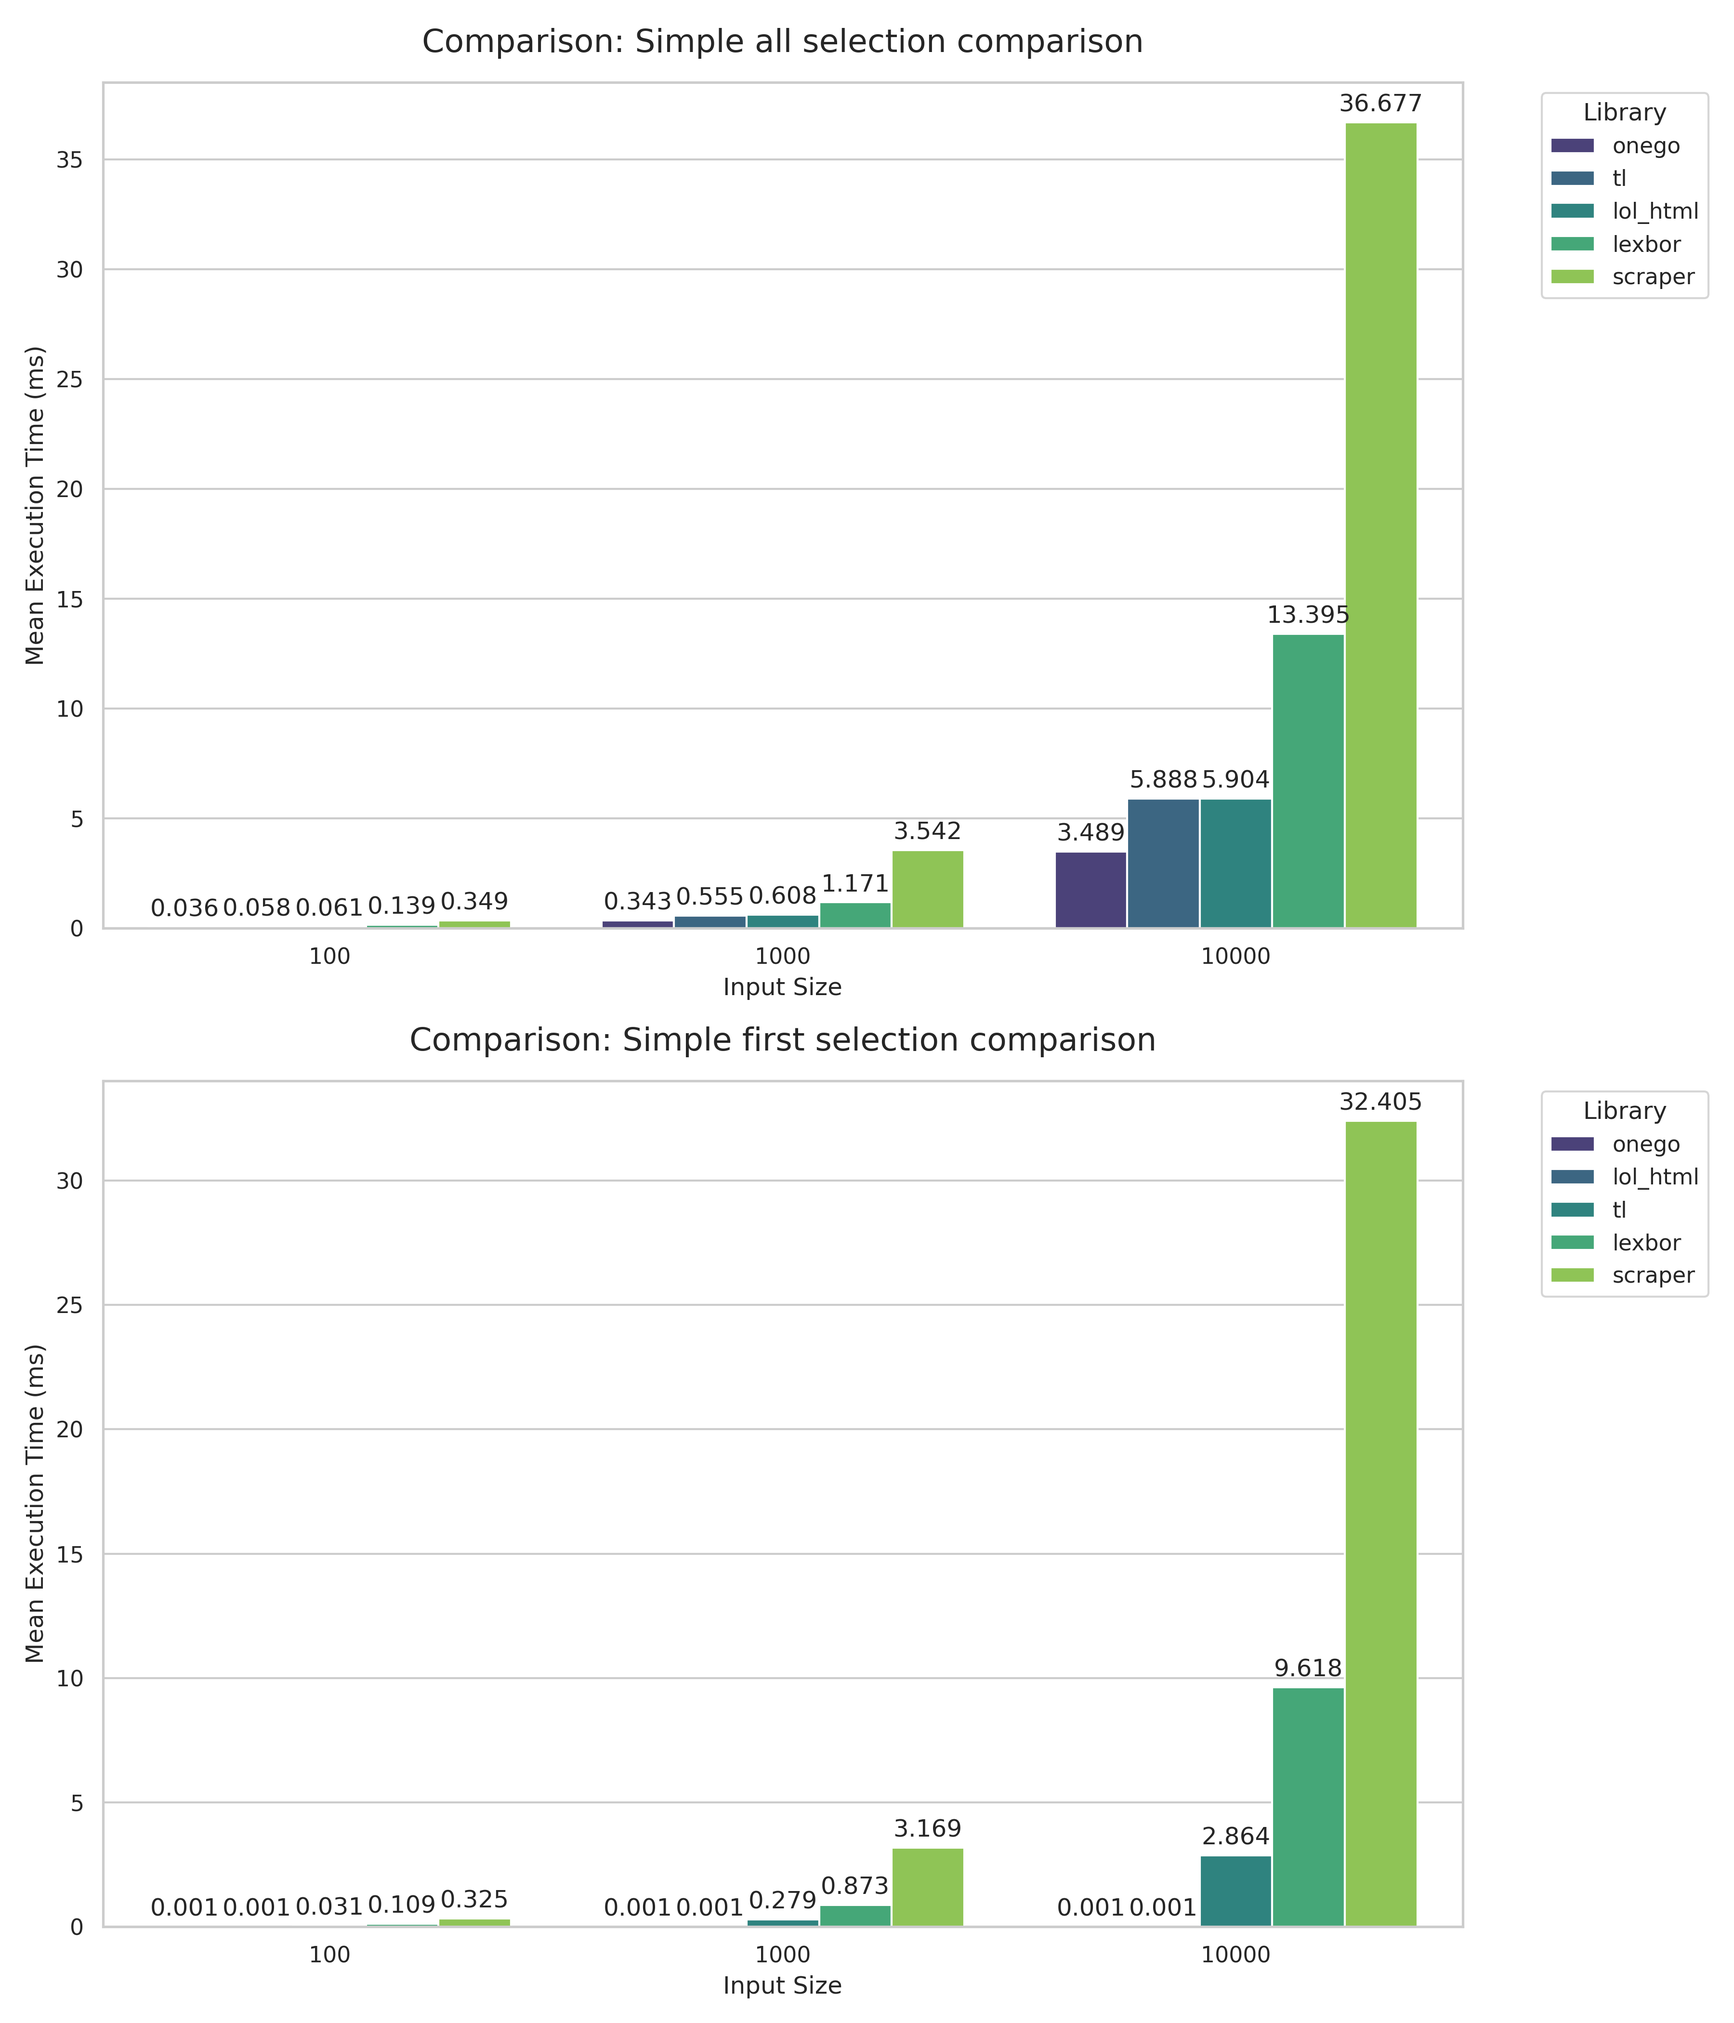
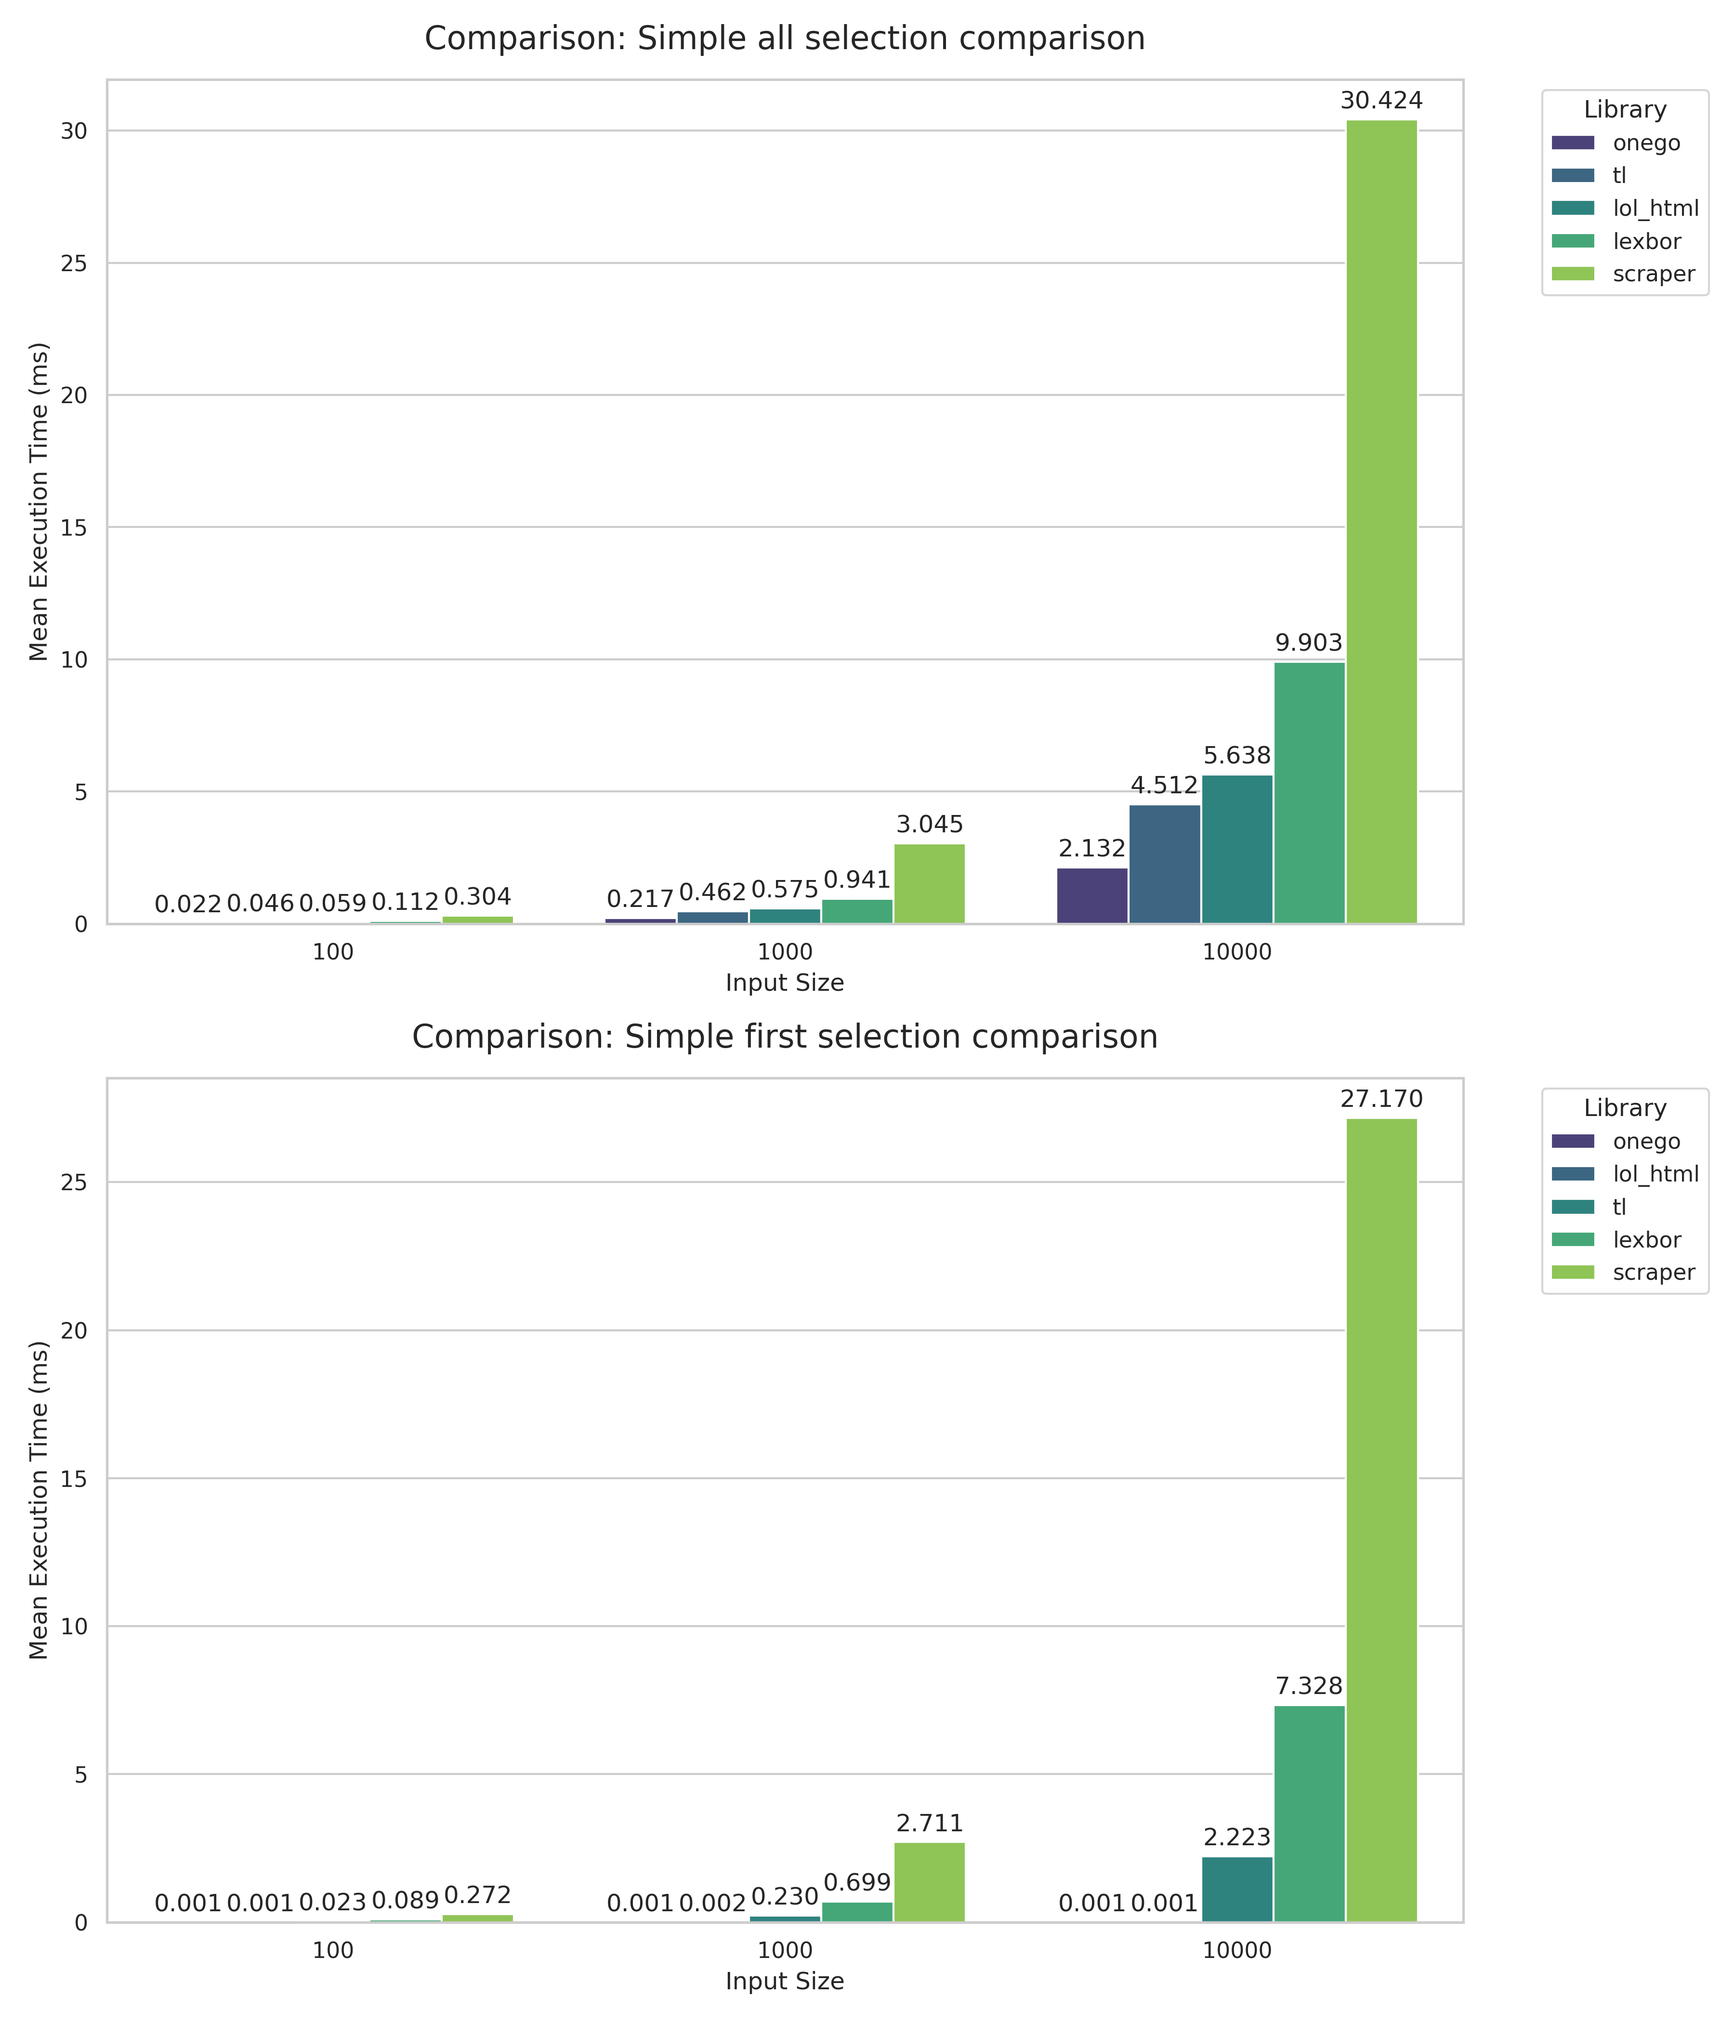
Text Content Benchmarks

diff --git a/src/xhtml/parser.rs b/src/xhtml/parser.rs
@@ -149,7 +149,6 @@ impl<'html, 'query: 'html> XHtmlParser<'html, 'query> {
         self.store
     }
 }
-/*
 #[cfg(test)]
 mod tests {
     use super::*;
@@ -174,7 +173,7 @@ mod tests {
 
         let queries = &[Query::all("p.indent > .bold", Save::none()).build()];
 
-        let manager = FsmManager::new(RustStore::new(()), queries);
+        let manager = FsmManager::new(queries);
 
         let mut parser = XHtmlParser::new(manager);
 
@@ -212,7 +211,7 @@ mod tests {
         let mut reader = Reader::new(BASIC_HTML);
 
         let queries = &[Query::all("p.indent > .bold", Save::none()).build()];
-        let manager = FsmManager::new(RustStore::new(()), queries);
+        let manager = FsmManager::new(queries);
 
         let mut parser = XHtmlParser::new(manager);
 
@@ -224,37 +223,37 @@ mod tests {
 
         continue_parser = parser.next(&mut reader); // </h1>
         assert!(continue_parser);
-        assert_eq!(parser.content.content, "Hello World".to_string());
+        assert_eq!(parser.store.text_content.content, "Hello World".to_string());
 
         continue_parser = parser.next(&mut reader); // <p class="indent">
         assert!(continue_parser);
-        assert_eq!(parser.content.content, "Hello World".to_string());
+        assert_eq!(parser.store.text_content.content, "Hello World".to_string());
 
         continue_parser = parser.next(&mut reader); // <span id="name" class="bold">
         assert!(continue_parser);
         assert_eq!(
-            parser.content.content.trim(),
+            parser.store.text_content.content.trim(),
             "Hello World My name is".to_string()
         );
 
         continue_parser = parser.next(&mut reader); // </span>
         assert!(continue_parser);
         assert_eq!(
-            parser.content.content.trim(),
+            parser.store.text_content.content.trim(),
             "Hello World My name is Zachary".to_string()
         );
 
         continue_parser = parser.next(&mut reader); // </p>
         assert!(continue_parser);
         assert_eq!(
-            parser.content.content.trim(),
+            parser.store.text_content.content.trim(),
             "Hello World My name is Zachary".to_string()
         );
 
         continue_parser = parser.next(&mut reader); // </html>
         assert!(!continue_parser);
         assert_eq!(
-            parser.content.content.trim(),
+            parser.store.text_content.content.trim(),
             "Hello World My name is Zachary".to_string()
         );
     }
@@ -268,7 +267,7 @@ mod tests {
             Query::all("h1 + .indent #name", Save::none()).build(),
         ];
 
-        let manager = FsmManager::new(RustStore::new(()), queries);
+        let manager = FsmManager::new(queries);
 
         let mut parser = XHtmlParser::new(manager);
 
@@ -318,7 +317,7 @@ mod tests {
             ]
         });
         let queries = &[queries.build()];
-        let manager = FsmManager::new(RustStore::new(()), queries);
+        let manager = FsmManager::new(queries);
 
         let mut parser = XHtmlParser::new(manager);
 
@@ -341,7 +340,7 @@ mod tests {
 
         // Section 1
         let s1 = sections[0];
-        assert_eq!(s1.text_content, Some("Hello World".to_string()));
+        assert_eq!(store.text_content(s1), Some("Hello World"));
 
         let s1_div_a: Vec<&Element> = s1["div a"]
             .iter()
@@ -349,7 +348,7 @@ mod tests {
             .map(|i| &store.arena[*i])
             .collect();
         assert_eq!(s1_div_a.len(), 1);
-        assert_eq!(s1_div_a[0].text_content, Some("World".to_string()));
+        assert_eq!(store.text_content(s1_div_a[0]), Some("World"));
         assert_eq!(s1_div_a[0].attributes[0].value, Some("https://world.com"));
 
         let s1_direct_a: Vec<&Element> = s1["> a[href]"]
@@ -358,7 +357,7 @@ mod tests {
             .map(|i| &store.arena[*i])
             .collect();
         assert_eq!(s1_direct_a.len(), 1);
-        assert_eq!(s1_direct_a[0].text_content, Some("Hello".to_string()));
+        assert_eq!(store.text_content(s1_direct_a[0]), Some("Hello"));
         assert_eq!(
             s1_direct_a[0].attributes[0].value,
             Some("https://hello.com")
@@ -366,7 +365,7 @@ mod tests {
 
         // Section 2
         let s2 = sections[1];
-        assert_eq!(s2.text_content, Some("Hello2 World2 World3".to_string()));
+        assert_eq!(store.text_content(s2), Some("Hello2 World2 World3"));
 
         let s2_div_a: Vec<&Element> = s2["div a"]
             .iter()
@@ -374,8 +373,8 @@ mod tests {
             .map(|i| &store.arena[*i])
             .collect();
         assert_eq!(s2_div_a.len(), 2);
-        assert_eq!(s2_div_a[0].text_content, Some("World2".to_string()));
-        assert_eq!(s2_div_a[1].text_content, Some("World3".to_string()));
+        assert_eq!(store.text_content(s2_div_a[0]), Some("World2"));
+        assert_eq!(store.text_content(s2_div_a[1]), Some("World3"));
 
         let s2_direct_a: Vec<&Element> = s2["> a[href]"]
             .iter()
@@ -383,7 +382,7 @@ mod tests {
             .map(|i| &store.arena[*i])
             .collect();
         assert_eq!(s2_direct_a.len(), 1);
-        assert_eq!(s2_direct_a[0].text_content, Some("Hello2".to_string()));
+        assert_eq!(store.text_content(s2_direct_a[0]), Some("Hello2"));
     }
 
     const BASIC_HTML_WITH_SCRIPT: &str = r#"
@@ -403,7 +402,7 @@ mod tests {
 
         let queries = &[Query::all("div", Save::none()).build()];
 
-        let manager = FsmManager::new(RustStore::new(()), queries);
+        let manager = FsmManager::new(queries);
 
         let mut parser = XHtmlParser::new(manager);
 
@@ -450,7 +449,7 @@ mod tests {
         let mut reader = Reader::new(BASIC_HTML_WITH_SELF_CLOSING_TAG);
         let queries = &[Query::all("form > p > input", Save::none()).build()];
 
-        let manager = FsmManager::new(RustStore::new(()), queries);
+        let manager = FsmManager::new(queries);
 
         let mut parser = XHtmlParser::new(manager);
 
@@ -490,7 +489,7 @@ mod tests {
 
         let queries = &[Query::all("form > p > input", Save::all()).build()];
 
-        let manager = FsmManager::new(RustStore::new(()), queries);
+        let manager = FsmManager::new(queries);
 
         let mut parser = XHtmlParser::new(manager);
 
@@ -531,7 +530,7 @@ mod tests {
 
         let queries = &[Query::all("a", Save::all()).build()];
 
-        let manager = FsmManager::new(RustStore::new(()), queries);
+        let manager = FsmManager::new(queries);
 
         let mut parser = XHtmlParser::new(manager);
 
@@ -547,9 +546,9 @@ mod tests {
             .collect();
         assert_eq!(anchors.len(), 3);
 
-        assert_eq!(anchors[0].text_content, Some("Hello 1".to_string()));
-        assert_eq!(anchors[1].text_content, Some("Hello 2".to_string()));
-        assert_eq!(anchors[2].text_content, Some("Hello 3".to_string()));
+        assert_eq!(store.text_content(anchors[0]), Some("Hello 1"));
+        assert_eq!(store.text_content(anchors[1]), Some("Hello 2"));
+        assert_eq!(store.text_content(anchors[2]), Some("Hello 3"));
     }
 
     const POSTS: &str = r#"<div class="article"><a href="/post/0"><b>Post</b> &lt;0&gt;</a></div><div class="article"><a href="/post/1"><b>Post</b> &lt;1&gt;</a></div>"#;
@@ -560,7 +559,7 @@ mod tests {
 
         let queries = &[Query::first("div.article a", Save::all()).build()];
 
-        let manager = FsmManager::new(RustStore::new(()), queries);
+        let manager = FsmManager::new(queries);
 
         let mut parser = XHtmlParser::new(manager);
 
@@ -575,7 +574,6 @@ mod tests {
         assert_eq!(anchor.name, "a");
         assert_eq!(anchor.attributes[0].value, Some("/post/0"));
         assert_eq!(anchor.inner_html, Some("<b>Post</b> &lt;0&gt;"));
-        assert_eq!(anchor.text_content, Some("Post &lt;0&gt;".to_string()));
+        assert_eq!(store.text_content(anchor), Some("Post &lt;0&gt;"));
     }
 }
-*/

diff --git a/src/css/query/selection.rs b/src/css/query/selection.rs
@@ -341,14 +341,13 @@ impl<'a, 'html, 'query: 'html> SelectionRunner<'a, 'query> {
         return false;
     }
 }
-/*
 #[cfg(test)]
 mod tests {
     use super::*;
     use crate::XHtmlElement;
     use crate::css::parser::tree::{Position, Query, Save};
     use crate::store::ChildIndex;
-    use crate::store::{Store};
+    use crate::store::Store;
     use crate::utils::Reader;
     use smallvec::smallvec;
 
@@ -358,7 +357,7 @@ mod tests {
     fn test_fsm_next_descendant() {
         let selection_tree = &Query::all("div a", Save::none()).build();
 
-        let mut store = RustStore::new(());
+        let mut store = Store::new();
 
         let mut selection = SelectionRunner::new(selection_tree);
 
@@ -451,7 +450,7 @@ mod tests {
             .then(|p| [p.first("span", Save::none()), p.first("a", Save::none())])
             .build();
 
-        let mut store = RustStore::new(());
+        let mut store = Store::new();
         let mut selection = SelectionRunner::new(selection_tree);
 
         let _ = selection.next(
@@ -554,7 +553,7 @@ mod tests {
     fn test_simple_open_close() {
         let selection_tree = Query::first("div", Save::none()).build();
 
-        let mut store = RustStore::new(());
+        let mut store = Store::new();
         let mut selection = SelectionRunner::new(&selection_tree);
 
         let reader = Reader::new("<div></div>");
@@ -600,7 +599,6 @@ mod tests {
                 element_depth: 0,
             },
             &reader,
-            &content,
         );
 
         assert!(selection.scoped_fsms.is_empty());
@@ -616,4 +614,3 @@ mod tests {
         );
     }
 }
-*/

diff --git a/src/xhtml/text_content.rs b/src/xhtml/text_content.rs
@@ -39,7 +39,7 @@ impl TextContent {
     pub fn get_position(&self) -> usize {
         assert!(!self.content.is_empty());
         // BUG: the position is off by one
-        self.content.len() - 1
+        self.content.len() - 2
     }
 
     pub fn push<'html>(&mut self, reader: &Reader<'html>, end_position: usize) -> Option<usize> {
@@ -90,18 +90,18 @@ mod tests {
 
         content.set_start(0);
         content.push(&reader, 5);
-        assert_eq!(content.content, "Hello".to_string());
+        assert_eq!(content.content.trim(), "Hello".to_string());
 
         content.stop_recording();
 
         content.set_start(0);
         content.push(&reader, 5);
-        assert_eq!(content.content, "Hello".to_string());
+        assert_eq!(content.content.trim(), "Hello".to_string());
 
         content.start_recording();
 
         content.set_start(0);
         content.push(&reader, 5);
-        assert_eq!(content.content, "Hello Hello".to_string());
+        assert_eq!(content.content.trim(), "Hello Hello".to_string());
     }
 }

diff --git a/benches/README.md b/benches/README.md
@@ -7,31 +7,31 @@
 
 | Library | Min (ms) | StdDev (ms) |
 | :--- | :--- | :--- |
-| onego | **0.036054** | 0.000150 |
-| tl | **0.058056** | 0.000308 |
-| lol_html | **0.060664** | 0.000332 |
-| lexbor | **0.138901** | 0.000741 |
-| scraper | **0.349017** | 0.004090 |
+| onego | **0.022046** | 0.000185 |
+| tl | **0.046224** | 0.000432 |
+| lol_html | **0.058586** | 0.000695 |
+| lexbor | **0.112157** | 0.001393 |
+| scraper | **0.303718** | 0.003815 |
 
 ### Input Size: 1000 Elements
 
 | Library | Min (ms) | StdDev (ms) |
 | :--- | :--- | :--- |
-| onego | **0.343413** | 0.004473 |
-| tl | **0.554674** | 0.003055 |
-| lol_html | **0.608035** | 0.002202 |
-| lexbor | **1.170863** | 0.008220 |
-| scraper | **3.541929** | 0.010431 |
+| onego | **0.216645** | 0.002470 |
+| tl | **0.461832** | 0.004459 |
+| lol_html | **0.575337** | 0.006590 |
+| lexbor | **0.940750** | 0.010062 |
+| scraper | **3.045186** | 0.014250 |
 
 ### Input Size: 10000 Elements
 
 | Library | Min (ms) | StdDev (ms) |
 | :--- | :--- | :--- |
-| onego | **3.489262** | 0.018170 |
-| tl | **5.887970** | 0.009246 |
-| lol_html | **5.903961** | 0.034279 |
-| lexbor | **13.395031** | 0.102061 |
-| scraper | **36.677289** | 0.069227 |
+| onego | **2.131715** | 0.010926 |
+| tl | **4.511841** | 0.023197 |
+| lol_html | **5.638339** | 0.025953 |
+| lexbor | **9.902574** | 0.049035 |
+| scraper | **30.423799** | 0.133665 |
 
 ---
 
@@ -41,31 +41,31 @@
 
 | Library | Min (ms) | StdDev (ms) |
 | :--- | :--- | :--- |
-| onego | **0.000722** | 0.000004 |
-| lol_html | **0.001317** | 0.000007 |
-| tl | **0.031020** | 0.000901 |
-| lexbor | **0.108961** | 0.000386 |
-| scraper | **0.324607** | 0.009518 |
+| onego | **0.000583** | 0.000007 |
+| lol_html | **0.001383** | 0.000017 |
+| tl | **0.023043** | 0.000318 |
+| lexbor | **0.088720** | 0.001427 |
+| scraper | **0.271654** | 0.003109 |
 
 ### Input Size: 1000 Elements
 
 | Library | Min (ms) | StdDev (ms) |
 | :--- | :--- | :--- |
-| onego | **0.000743** | 0.000011 |
-| lol_html | **0.001341** | 0.000015 |
-| tl | **0.279087** | 0.001614 |
-| lexbor | **0.872930** | 0.006882 |
-| scraper | **3.168580** | 0.007766 |
+| onego | **0.000582** | 0.000006 |
+| lol_html | **0.001501** | 0.000058 |
+| tl | **0.229986** | 0.002469 |
+| lexbor | **0.698619** | 0.008466 |
+| scraper | **2.710535** | 0.012126 |
 
 ### Input Size: 10000 Elements
 
 | Library | Min (ms) | StdDev (ms) |
 | :--- | :--- | :--- |
-| onego | **0.000739** | 0.000003 |
-| lol_html | **0.001384** | 0.000006 |
-| tl | **2.863881** | 0.006064 |
-| lexbor | **9.618386** | 0.015514 |
-| scraper | **32.405031** | 0.061824 |
+| onego | **0.000580** | 0.000006 |
+| lol_html | **0.001416** | 0.000014 |
+| tl | **2.222701** | 0.016582 |
+| lexbor | **7.328258** | 0.047419 |
+| scraper | **27.170458** | 0.159519 |
 
 ---
 
